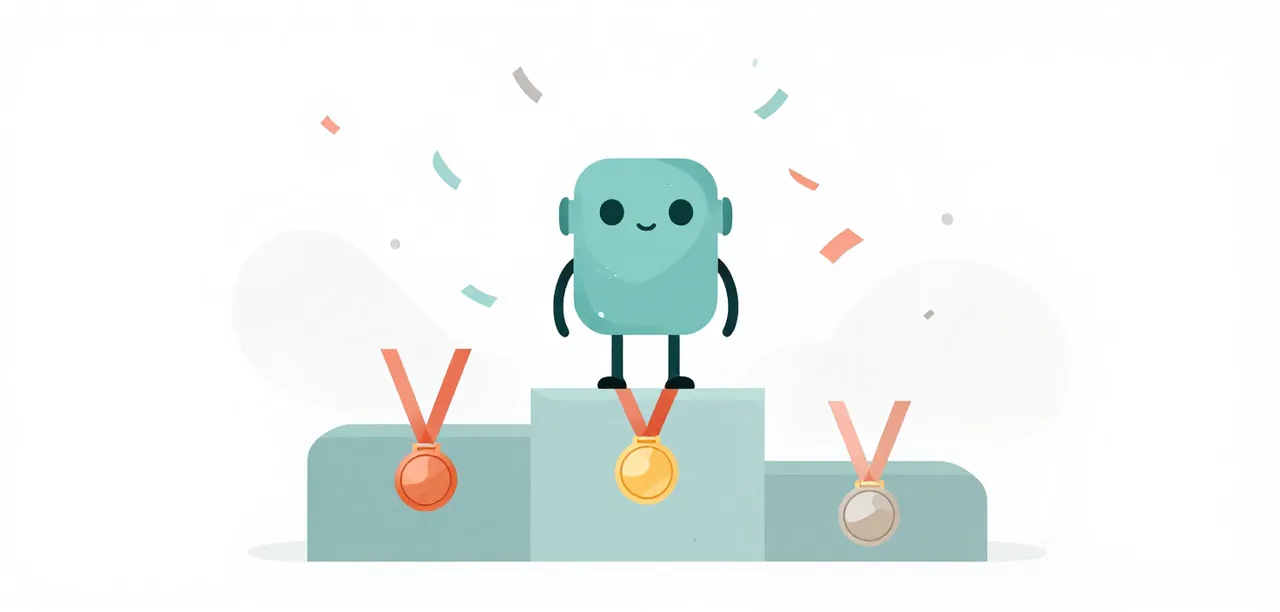
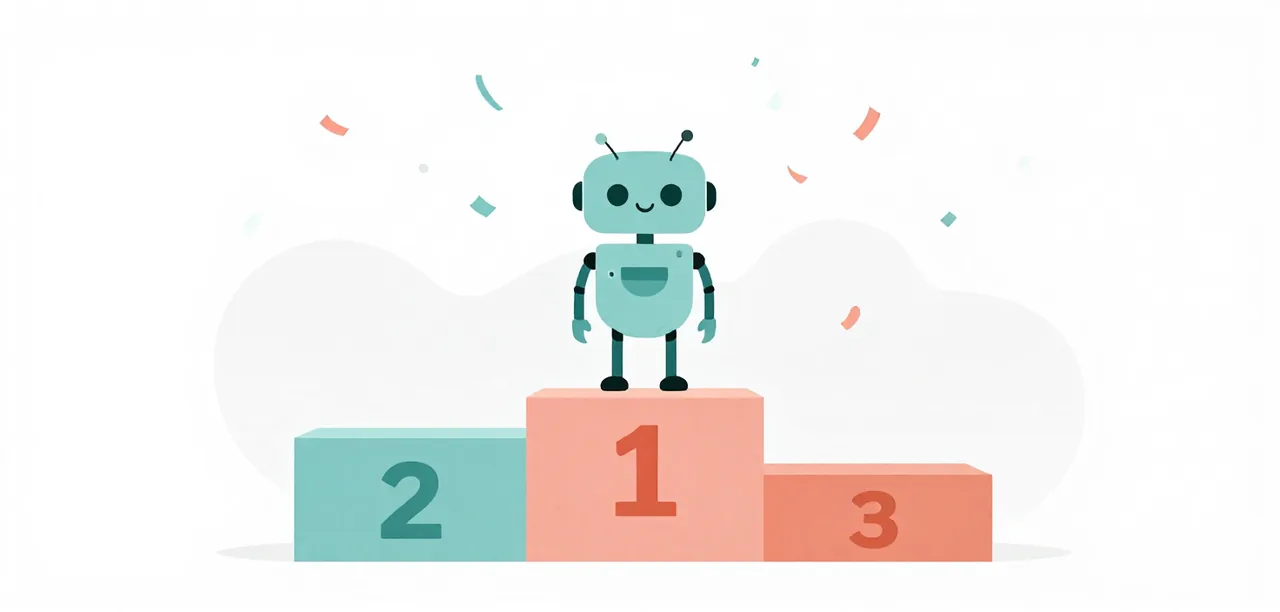
docs(challenge): rename the tiers Bronze/Silver/Gold -> Easy/Medium/Hard
Align the Challenge's display tier names to the suite names (--suite easy|medium
|hard). Renamed across the challenge page, eval-suites, the-harness, glossary,
index, project docs and the lesson template; the three remedy units' evidence
strings and the regenerated remedies table follow. The challenge illustration is
reworked from a bronze/silver/gold-medal podium to a plain three-step podium
(prompts.toml + regenerated challenge.webp). Lowercase suite ids are unchanged.

diff --git a/remedies/context/use-short-prompt.ts b/remedies/context/use-short-prompt.ts
@@ -8,7 +8,7 @@ export const meta: UnitMeta = {
 	pathology: "A long, procedural system prompt the small model follows instead of the files",
 	does: "Replaces the system prompt with the 643-character prompt in prompts/mellum-worker.md",
 	lesson: "M2",
-	evidence: "screen: 3/3 against 1/3 on Bronze (2026-10-29), 3/9 against 3/9 earlier; not decided",
+	evidence: "screen: 3/3 against 1/3 on Easy (2026-10-29), 3/9 against 3/9 earlier; not decided",
 };
 
 const SHIPPED = resolve(dirname(fileURLToPath(import.meta.url)), "..", "..", "prompts", "mellum-worker.md");

diff --git a/remedies/context/add-project-facts.ts b/remedies/context/add-project-facts.ts
@@ -9,7 +9,7 @@ export const meta: UnitMeta = {
 	pathology: "Guesses how to run the tests instead of using the project's own command",
 	does: "Appends the project facts (AGENTS.md `## Mellum`, test command) to user messages",
 	lesson: "M1",
-	evidence: "screen: 3/3 against 2/3 on Bronze (2026-10-29); a null in the page's record",
+	evidence: "screen: 3/3 against 2/3 on Easy (2026-10-29); a null in the page's record",
 };
 
 export function install(pi: PiLike, opts: { cwd?: string; env?: Record<string, string | undefined> } = {}): void {

diff --git a/remedies/workflow/spec-driven-flow.ts b/remedies/workflow/spec-driven-flow.ts
@@ -6,7 +6,7 @@ export const meta: UnitMeta = {
 	pathology: "Builds a multi-phase app in one go and breaks earlier phases",
 	does: "Plan, frozen per-phase gates and checkpoints, as tools the agent calls (run with learn/code/flow_run.py)",
 	lesson: "H1",
-	evidence: "flow runs 2026-10-29: Bronze 4/4, Silver 18/18, Gold 30/34 (n = 1)",
+	evidence: "flow runs 2026-10-29: Easy 4/4, Medium 18/18, Hard 30/34 (n = 1)",
 };
 
 /** Loads the extension unchanged; any tool it registers is kept by `context/narrow-tools`. */

diff --git a/learn/challenge/index.md b/learn/challenge/index.md
@@ -8,7 +8,7 @@ You have run a small model, built a harness and read what goes wrong. Now
 prove it: point your setup at the same three projects every lesson is measured
 on, and see how far it gets.
 
-![A small robot on a winners' podium with bronze, silver and gold medals](../assets/illustrations/challenge.webp){ .illustration }
+![A small robot on a winners' podium for the three tiers: Easy, Medium and Hard](../assets/illustrations/challenge.webp){ .illustration }
 
 ## The three levels
 
@@ -18,21 +18,21 @@ judged on.
 
 <div class="grid cards" markdown>
 
--   **Bronze**
+-   **Easy**
 
     ---
 
     One prompt: build the home page. **4 hidden checks.** A good first
     target: a setup that holds together passes it in minutes.
 
--   **Silver**
+-   **Medium**
 
     ---
 
     Four prompts, one per phase of a growing app. **18 hidden checks.** The
     model has to keep earlier phases working while it adds new ones.
 
--   **Gold**
+-   **Hard**
 
     ---
 
@@ -50,7 +50,7 @@ wrong), with the same Mellum model you set up in
 baseline: the same model at full precision on a rented GPU, rebuilt with
 `scripts/baseline/baseline.py`.
 
-| Setup | Bronze | Silver | Gold |
+| Setup | Easy | Medium | Hard |
 | --- | --- | --- | --- |
 | Pi on its own | 0/3 | 0/3 | 0/3 |
 | The Baseline Worker | 1/3 | 2/3 | 0/3 |
@@ -71,7 +71,7 @@ for when a run fails in a way you do not understand.
 uv run python learn/code/harness.py run --suite easy --repeat 3 --grade
 ```
 
-Bronze is `--suite easy`, Silver `--suite medium` and Gold `--suite hard`.
+Easy is `--suite easy`, Medium `--suite medium` and Hard `--suite hard`.
 Each session gets a fresh copy of the project; the summary line says how many
 of the three passed, and each session's `run.json` lists the checks it
 missed. Then add remedies, one line at a time, from the list below, or a
@@ -114,16 +114,16 @@ lesson that teaches a remedy if you want to know why it works.
 | Rewrites a whole file to change a few lines (942 lines became 2) | `guard/refuse-whole-file-rewrite`: Blocks `write` to an existing file and asks for `edit` | n/a | recorded once; dormant in the worker (its column never went non-zero) | `--remedy guard/refuse-whole-file-rewrite` |
 | Searches the whole machine (`grep -rl x /Users /var`) and hangs the run | `guard/stay-in-workspace`: Blocks a recursive search that names a path outside the workspace | n/a | screen: recorded hangs; searches only, writes are not covered | `--remedy guard/stay-in-workspace` |
 | Ends a turn with no reply and no tool call, part-way through the task | `nudge/nudge-empty-turn`: Restates the completion fact and asks for one more turn, at most 3 times | n/a | ladder: 5 of 45 v3 runs, every failure; a null on the suites (M2) | `--remedy nudge/nudge-empty-turn` |
-| Guesses how to run the tests instead of using the project's own command | `context/add-project-facts`: Appends the project facts (AGENTS.md `## Mellum`, test command) to user messages | n/a | screen: 3/3 against 2/3 on Bronze (2026-10-29); a null in the page's record | `--remedy context/add-project-facts` |
+| Guesses how to run the tests instead of using the project's own command | `context/add-project-facts`: Appends the project facts (AGENTS.md `## Mellum`, test command) to user messages | n/a | screen: 3/3 against 2/3 on Easy (2026-10-29); a null in the page's record | `--remedy context/add-project-facts` |
 | Reaches for tools it uses badly (subagents, todo lists) instead of reading and editing | `context/narrow-tools`: Keeps read, grep, find, ls, bash, edit and write, plus tools your units register; drops the rest | n/a | part of the Baseline Worker; not measured on its own | `--remedy context/narrow-tools` |
 | The serving stack returns reasoning as `<think>` text, and the model is fed it back as things it said | `context/repair-think-tags`: Moves a leading `<think>…</think>` in a reply into a thinking block, sent back as reasoning; leaves a correctly served reply alone | n/a | LAN vLLM host: 236 of 244 turns leaked; 0 of 136 on the pinned vLLM 0.32.0 | `--remedy context/repair-think-tags` |
 | Reads more than the context holds, so Pi compacts it and the model loses what it read first | `context/trim-tool-output`: Trims a read, bash, grep, find or ls result over 8,000 characters and says how to search for the rest | n/a | context-overflow screen: 8 notes read whole, 2 compactions, 8 notes read again | `--remedy context/trim-tool-output` |
-| A long, procedural system prompt the small model follows instead of the files | `context/use-short-prompt`: Replaces the system prompt with the 643-character prompt in prompts/mellum-worker.md | n/a | screen: 3/3 against 1/3 on Bronze (2026-10-29), 3/9 against 3/9 earlier; not decided | `--remedy context/use-short-prompt` |
+| A long, procedural system prompt the small model follows instead of the files | `context/use-short-prompt`: Replaces the system prompt with the 643-character prompt in prompts/mellum-worker.md | n/a | screen: 3/3 against 1/3 on Easy (2026-10-29), 3/9 against 3/9 earlier; not decided | `--remedy context/use-short-prompt` |
 | Runs a server or watcher in the foreground and the session waits forever | `tool/background-long-commands`: Rewrites a long-running bash command to run in the background and returns its startup output | n/a | unit-tested; not measured on the suites | `--remedy tool/background-long-commands` |
 | Loses track of a long task part-way through | `tool/keep-a-plan`: Keeps a TODO.md the model writes, follows and amends on failures | n/a | unit-tested; not measured on the suites | `--remedy tool/keep-a-plan` |
 | Guesses an API it never saw (a post-cutoff library, a redirect status) | `tool/lookup-library-docs`: Adds a lookup tool over the installed packages' signatures and docs | n/a | unit-tested; not measured on the suites | `--remedy tool/lookup-library-docs` |
 | Finishes with lint or type errors the grader counts as a fail | `check/check-code-quality`: Runs the quality checks before the model may finish | n/a | unit-tested; not measured on the suites | `--remedy check/check-code-quality` |
-| Builds a multi-phase app in one go and breaks earlier phases | `workflow/spec-driven-flow`: Plan, frozen per-phase gates and checkpoints, as tools the agent calls (run with learn/code/flow_run.py) | n/a | flow runs 2026-10-29: Bronze 4/4, Silver 18/18, Gold 30/34 (n = 1) | `learn/code/flow_run.py` |
+| Builds a multi-phase app in one go and breaks earlier phases | `workflow/spec-driven-flow`: Plan, frozen per-phase gates and checkpoints, as tools the agent calls (run with learn/code/flow_run.py) | n/a | flow runs 2026-10-29: Easy 4/4, Medium 18/18, Hard 30/34 (n = 1) | `learn/code/flow_run.py` |
 
 <!-- remedies:end -->
 
@@ -146,7 +146,7 @@ A submitted remedy that measurably helps is the start of a new lesson.
 
 ## Tips
 
-- Start with Bronze. If it does not pass, the problem is in the setup, not the
+- Start with Easy. If it does not pass, the problem is in the setup, not the
   model's ambition; [Troubleshooting](../getting-started/troubleshoot.md)
   covers the usual causes.
 - Read the trace, not only the score: [Pathologies](../pathologies.md) names

diff --git a/learn/getting-started/eval-suites.md b/learn/getting-started/eval-suites.md
@@ -43,22 +43,22 @@ fails because of that, not because the harness withheld something.
 
 ## The three suites
 
-The three suites are Bronze, Silver and Gold, and together they are [The Challenge](../challenge/index.md).
+The three suites are Easy, Medium and Hard, and together they are [The Challenge](../challenge/index.md).
 
 | Suite      | Starts from                                                           | Requests                              | Graded on                                  |
 |------------|-----------------------------------------------------------------------|---------------------------------------|--------------------------------------------|
-| **Bronze** | an empty AgentClinic project, with a hinted four-phase roadmap        | one: phase 1                          | the phase-1 grader                         |
-| **Silver** | an empty AgentClinic project, with a user-story roadmap               | four: one per phase                   | phases 1–4                                 |
-| **Gold**   | an empty AgentClinic project, with a user-story roadmap and `data.db` | eleven: seven phases, four migrations | phases 1–7, the reports and the migrations |
+| **Easy**   | an empty AgentClinic project, with a hinted four-phase roadmap        | one: phase 1                          | the phase-1 grader                         |
+| **Medium** | an empty AgentClinic project, with a user-story roadmap               | four: one per phase                   | phases 1–4                                 |
+| **Hard**   | an empty AgentClinic project, with a user-story roadmap and `data.db` | eleven: seven phases, four migrations | phases 1–7, the reports and the migrations |
 
-Gold is the one that punishes assumptions: the same four phases as
-Silver, then three more, with four migrations interleaved. The database schema
+Hard is the one that punishes assumptions: the same four phases as
+Medium, then three more, with four migrations interleaved. The database schema
 has to be discovered, and `archived_at IS NOT NULL` is not the same as
 `status = 'archived'`.
 
-### What Gold adds
+### What Hard adds
 
-The first four requests are Silver's. The rest are:
+The first four requests are Medium's. The rest are:
 
 | Request | What it asks for                                                                                                                                                                                                                                                        |
 |---------|-------------------------------------------------------------------------------------------------------------------------------------------------------------------------------------------------------------------------------------------------------------------------|
@@ -85,7 +85,7 @@ uv run scripts/backend.py start
 uv run learn/code/harness.py run --suite all --grade
 ```
 
-One line per suite (`easy` is Bronze, `medium` Silver, `hard` Gold), then a total:
+One line per suite (Easy, Medium, Hard), then a total:
 
 ```text
 easy: PASS (n=1; run /var/folders/...; 1 request, 3 tool calls, 0 tool errors)
@@ -157,7 +157,7 @@ Every run writes `trace.jsonl` beside its workspace. The rows to read first:
 - `message_end`: a message, including the final reply's text;
 - `agent_settled`: the run ended.
 
-A Gold run that fails with 11 requests and 2 tool errors kept going and kept
+A Hard run that fails with 11 requests and 2 tool errors kept going and kept
 hitting errors; a run that fails with 1 request and no tool calls wrote
 nothing. The counts on the score line are these rows, summed.
 

diff --git a/learn/pathologies.md b/learn/pathologies.md
@@ -54,7 +54,7 @@ scoreboard.
 
 5. **An empty final.** A turn ends with no text and no tool call, and the run
    stops there having done nothing, followed by the quiet version, an empty
-   final at the very end. **Seen:** ten Bronze sessions in which the nudge never
+   final at the very end. **Seen:** ten Easy sessions in which the nudge never
    fired because no empty turn had the shape it answers, the finals ending on a
    context overflow or the output cap instead
    ([lesson](lessons/index.md)). **Answer:** the bounded
@@ -78,7 +78,7 @@ scoreboard.
 8. **A server nobody can stop.** The model starts `uvicorn` in the foreground to
    check its work, the call never returns, and the session burns its whole
    deadline waiting. **Seen:** three `no-facts` sessions that went silent for
-   143–460 s, two of three `bare` Bronze sessions, LC.19's first two attempts,
+   143–460 s, two of three `bare` Easy sessions, LC.19's first two attempts,
    and, on the local 6-bit MLX host, two of three bare `build-a-harness` sessions
    (2026-10-29 smoke), and two of three easy `acceptance + ncm` reps on local Q4
    that were killed at the 120 s stall on a foreground `python main.py`, before
@@ -95,7 +95,7 @@ scoreboard.
 9. **Thinking spends the answer budget.** The model reasons until the output
    cap is gone, and the turn ends with no answer. **Seen:** a one-turn smoke at
    `max_tokens 32` that spent all 32 tokens thinking and returned empty content,
-   and suite finals on Bronze and Silver ended by `length`
+   and suite finals on Easy and Medium ended by `length`
    ([record](https://github.com/andrevanzuydam/mellum-worker/blob/main/docs/superpowers/research/2026-10-29-lessons-left-the-track.md)). **Answer:** an output cap with room for the answer;
    stripping earlier reasoning does not give the turn its budget back.
 10. **An inert gate (not the model's fault).** The verify-and-redispatch gate

diff --git a/learn/getting-started/index.md b/learn/getting-started/index.md
@@ -9,7 +9,7 @@ each ends with a check you can run. Six steps, then two paths.
 
 1. **[Base Pi on llama.cpp](base-pi-on-llamacpp.md)**: Install `uv`, llama.cpp and the Mellum weights, and get an answer from base Pi through a private profile. Start here.
 2. **[Working With Pi](working-with-pi.md)**: Use Pi's interactive terminal: prompts, tools, sessions, project trust, and the course's `/lesson` and `/remedy` commands.
-3. **[Eval suites and the telemetry](eval-suites.md)**: Run the Bronze, Silver and Gold suites through the provided harness, grade the model's files, and read why a run failed from its trace.
+3. **[Eval suites and the telemetry](eval-suites.md)**: Run the Easy, Medium and Hard suites through the provided harness, grade the model's files, and read why a run failed from its trace.
 4. **[The Harness](the-harness.md)**: Write a mini harness that runs Pi in a fresh folder and scores it, the instrument every lesson's before and after line uses.
 5. **[Extensions and Remedy Units](extensions.md)**: Learn what a Pi extension and a remedy unit are, how presets group units, and the two ways to switch them on.
 6. **[Troubleshooting](troubleshoot.md)**: Fix `uv` and `llama-server` when a setup step fails.
@@ -20,7 +20,7 @@ each ends with a check you can run. Six steps, then two paths.
 site, or type `/lesson` in Pi from a trusted checkout. Each lesson adds one
 remedy unit and shows the run before and after it.
 
-**Go straight to [The Challenge](../challenge/index.md).** Run Bronze, Silver
-and Gold, apply remedies with `--remedy preset:…`, and bring your own
+**Go straight to [The Challenge](../challenge/index.md).** Run Easy, Medium
+and Hard, apply remedies with `--remedy preset:…`, and bring your own
 extension with `--extension`. Use the lessons as a reference when a run fails
 in a way you do not understand.

diff --git a/learn/lesson-template.md b/learn/lesson-template.md
@@ -69,7 +69,7 @@ prompt lines, the tool list, the guard function or the config that changed.
 
 For a lesson that changes a setting, prompt, tool set or guard, show the
 before/after arms on the same suites. Compare inside a suite, never across
-Bronze/Silver/Gold. **Size the screen by what you read:**
+Easy/Medium/Hard. **Size the screen by what you read:**
 
 - **A presence claim needs n = 1.** The block reached every request, the guard
   fired, a file was written outside the layout, a session's checks never ran.
@@ -85,12 +85,12 @@ A `screen` badge is required at either size, and no screen is worded as a rate.
 
 | Suite | Arm | Passes | Turns | Failed checks | Tool errors | Context | Wall | Output tokens | Nudges |
 | --- | --- | --- | --- | --- | --- | --- | --- | --- | --- |
-| Bronze | before | | | | | | | | |
-| Bronze | after | | | | | | | | |
-| Silver | before | | | | | | | | |
-| Silver | after | | | | | | | | |
-| Gold | before | | | | | | | | |
-| Gold | after | | | | | | | | |
+| Easy | before | | | | | | | | |
+| Easy | after | | | | | | | | |
+| Medium | before | | | | | | | | |
+| Medium | after | | | | | | | | |
+| Hard | before | | | | | | | | |
+| Hard | after | | | | | | | | |
 
 A missing metric is `n/a`, never `0`. A code-only lesson may use Checks alone and
 say why there is no arm.
@@ -133,7 +133,7 @@ and the screen or badge that would test it.
 ### Run it yourself
 
 One sentence, then the command that reproduces the page's arms, with the
-suites (Bronze, Silver or Gold: `--suite easy`, `medium` or `hard`), n and deadline the page names. A page with no runnable arm says so in
+suites (Easy, Medium or Hard: `--suite easy`, `medium` or `hard`), n and deadline the page names. A page with no runnable arm says so in
 one sentence and gives no command.
 
 ```bash

diff --git a/learn/getting-started/the-harness.md b/learn/getting-started/the-harness.md
@@ -44,7 +44,7 @@ would print and mean nothing.
 
 **Badge:** `conjecture`
 
-Bronze, in `learn/code/suites/easy/`: a base AgentClinic project, one prompt
+Easy, in `learn/code/suites/easy/`: a base AgentClinic project, one prompt
 asking for phase 1, and the tests that check it. The prompt goes to `pi -p` as
 the request; nothing else about the suite is shown to the model.
 
@@ -152,7 +152,7 @@ printed PASS for a correct answer and FAIL for a wrong one. It has not been
 run against the model.
 
 Check the provided harness the same way, by running it and reading what it
-kept. `uv run learn/code/harness.py run --suite easy` runs one Bronze task and
+kept. `uv run learn/code/harness.py run --suite easy` runs one Easy task and
 prints a score line:
 
 ```text
@@ -183,7 +183,7 @@ A suite may also ship a **spec variant**: the same project with its phased
 requirements laid out another way. `--specs joined|split` runs the suite with
 that variant's prompts and workspace, and the run record carries `specs`, so
 two arms are told apart by the record rather than by memory. Only a suite with
-`spec-variants/` has them; `medium` (Silver) ships `joined`, whose briefs
+`spec-variants/` has them; `medium` ships `joined`, whose briefs
 point at one `specs/roadmap.md`, and `split`, whose briefs each point at their
 own `specs/phase-4.md`. Without the flag the suite runs exactly as shipped.
 

diff --git a/learn/glossary.md b/learn/glossary.md
@@ -33,9 +33,9 @@ badges let you trust it, and what is still open.
 
 ### Challenge
 
-<!-- zensical-glossary-aliases: The Challenge, Bronze, Silver, Gold -->
-The three levels learners attempt to test what they have learnt: Bronze (one
-prompt, 4 hidden checks), Silver (four prompts, 18 checks) and Gold (eleven
+<!-- zensical-glossary-aliases: The Challenge, Easy, Medium, Hard -->
+The three levels learners attempt to test what they have learnt: Easy (one
+prompt, 4 hidden checks), Medium (four prompts, 18 checks) and Hard (eleven
 prompts, 34 checks). They are the eval suites `easy`, `medium` and `hard`;
 [The Challenge](challenge/index.md) explains how to attempt them.
 

diff --git a/learn/project/index.md b/learn/project/index.md
@@ -13,7 +13,7 @@ start at [Getting started](../getting-started/index.md).
   its guards), `skills/mellum-setup/` and the prompt under `prompts/`. The
   subagent worker, its templates and the intercom phases were retired in
   LC.8; `/mellum` and the run-record path stayed.
-- **The harness**: `learn/code/harness.py` and the Bronze, Silver and Gold suites,
+- **The harness**: `learn/code/harness.py` and the Easy, Medium and Hard suites,
   the instrument the lessons measure with. `ladder/` reruns rungs 1–9
   internally and is no longer the lessons' instrument.
 

diff --git a/CHANGELOG.md b/CHANGELOG.md
@@ -40,6 +40,9 @@ Versions match git tags; pin one in both install lines.
 
 ### Changed
 
+- **The Challenge's three tiers are named Easy, Medium and Hard** (matching the
+  `--suite easy|medium|hard` names), not Bronze, Silver and Gold; the challenge
+  illustration is reworked to a plain three-step podium.
 - **The local llama-server now runs on port `:8001`** (the port oMLX used to
   hold): `scripts/backend.py`, `run.sh` and the course profile target `:8001`.
 - **`/mellum check` validates the llama-server you actually run**, not oMLX. It
